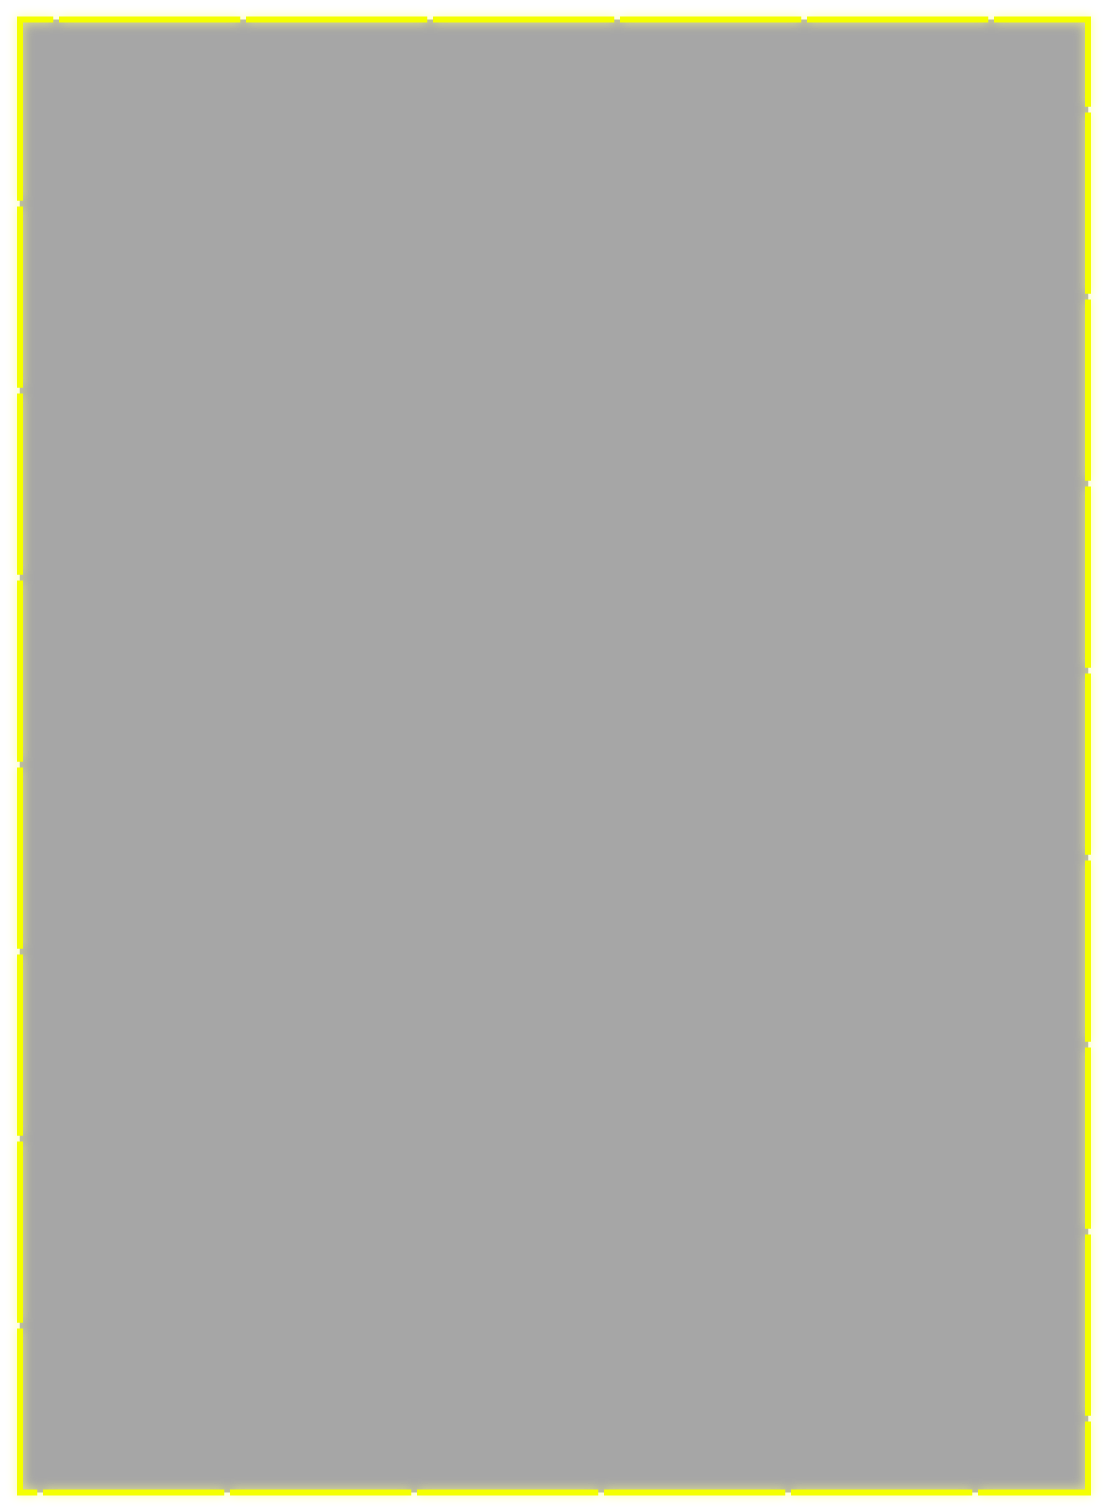
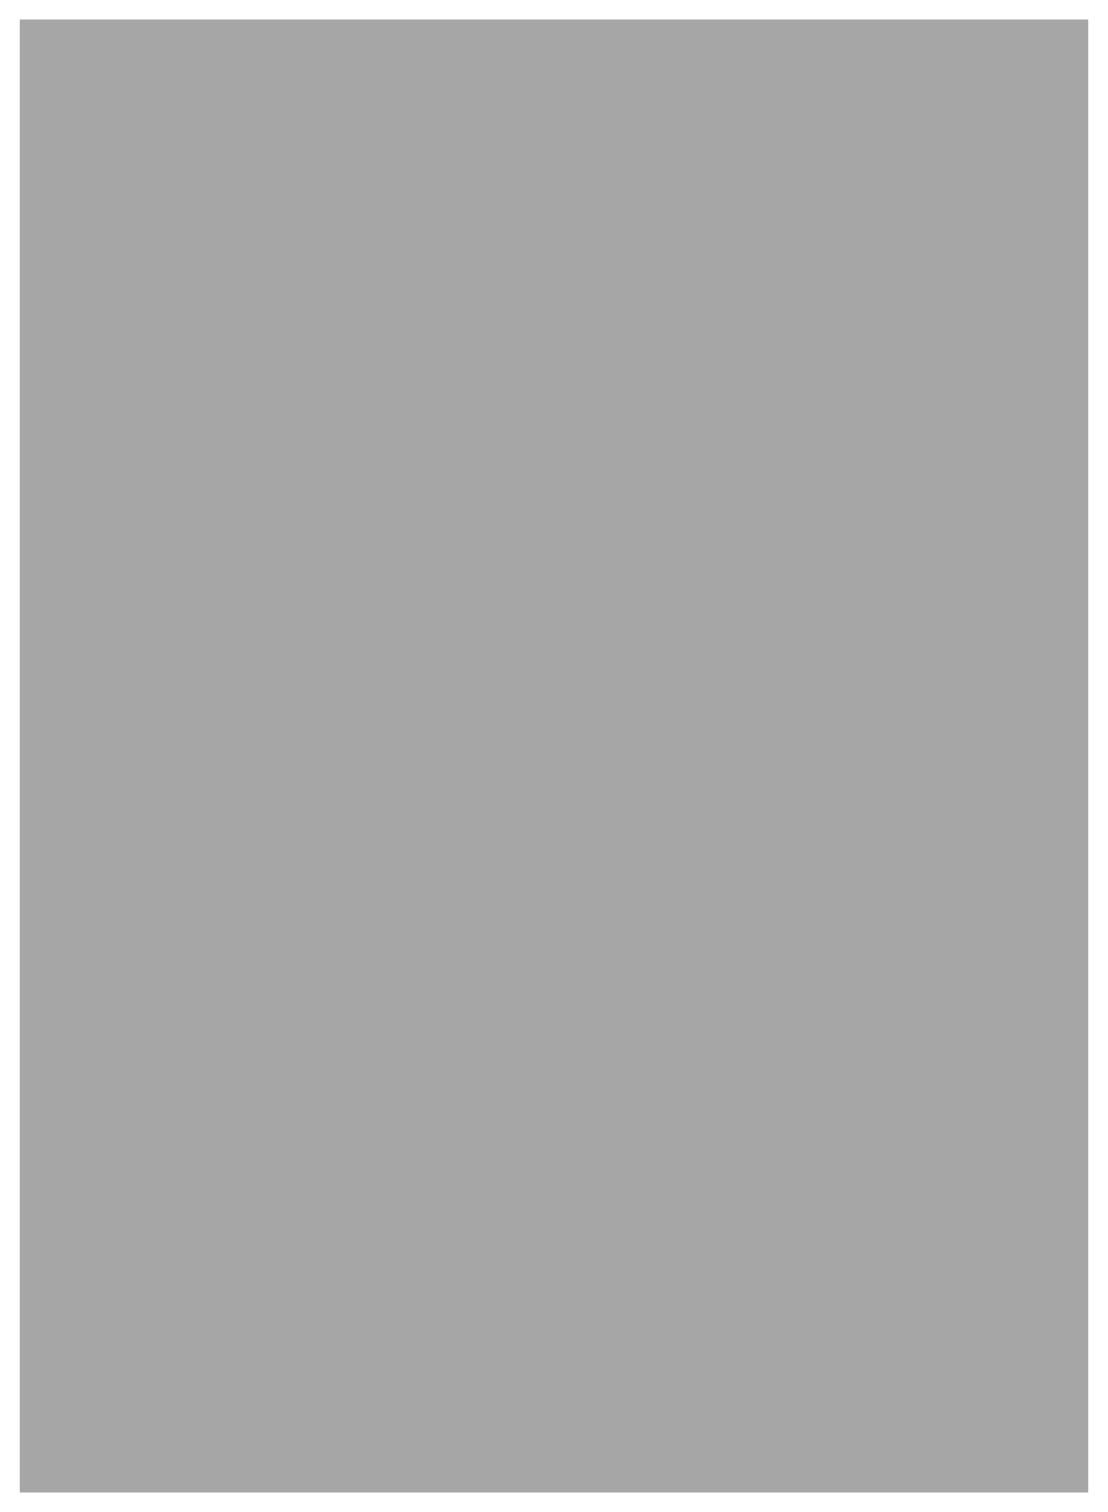
lock ball changes

Changed region(s): [[0.0, 0.0, 1.0, 0.9947]]

diff --git a/src/scenes/Level.js b/src/scenes/Level.js
@@ -29,7 +29,7 @@ class Level extends Phaser.Scene {
 		container_body.add(balls_background);
 
 		// world_rect
-		const world_rect = this.add.rectangle(21, 293, 1036, 1457);
+		const world_rect = this.add.rectangle(21, 293, 1036, 1451);
 		world_rect.setOrigin(0, 0);
 		world_rect.visible = false;
 		world_rect.isStroked = true;
@@ -46,9 +46,9 @@ class Level extends Phaser.Scene {
 		container_footer.add(lock_base);
 
 		// lock_ball
-		const lock_ball = this.add.image(23, 0, "b2");
-		lock_ball.scaleX = 0.7;
-		lock_ball.scaleY = 0.7;
+		const lock_ball = this.add.image(23, 0, "b4");
+		lock_ball.scaleX = 0.65;
+		lock_ball.scaleY = 0.65;
 		container_footer.add(lock_ball);
 
 		// bubble_lock
@@ -86,6 +86,11 @@ class Level extends Phaser.Scene {
 		end_line.visible = false;
 		end_line.isFilled = true;
 		container_endline.add(end_line);
+
+		// yellow_border
+		const yellow_border = this.add.image(-14, 270, "yellow_border");
+		yellow_border.setOrigin(0, 0);
+		container_endline.add(yellow_border);
 
 		// container_header
 		const container_header = this.add.container(0, 0);
@@ -309,8 +314,7 @@ class Level extends Phaser.Scene {
 		const popup_text = this.add.text(x, y, "+" + n, {});
 		popup_text.setOrigin(0.5, 0.5);
 		popup_text.setDepth(11);
-		popup_text.setStyle({ "align": "center", "color": this.oBalls[n].sColor, "fontSize": "64px" });
-		// popup_text.setStyle({ "align": "center", "color": "#FFFFFF", "fontSize": "64px" });
+		popup_text.setStyle({ "align": "center", "color": "#FFFFFF", "fontSize": "64px" });
 		this.tweens.add({
 			targets: popup_text,
 			x: x,
@@ -413,16 +417,16 @@ class Level extends Phaser.Scene {
 			this.container_balls.add(ball1);
 			ball1.setName(this.oBalls[sBall].nLabel);
 			this.ballsGroup.add(ball1);
-			const ballBody = ball1.body;
-			ballBody.setCollideWorldBounds(true);
-			ballBody.setCircle((ball1.width / 2) - 6);
-			ballBody.setOffset(6, 6);
-			ballBody.setBounce(0.3);
-			ballBody.setMass(5);
-			ballBody.gravity.y = 8000;
+			const body = ball1.body;
+			body.setCollideWorldBounds(true);
+			body.setCircle((ball1.width / 2) - 6);
+			body.setOffset(6, 6);
+			body.setBounce(0.3);
+			body.setMass(5);
+			body.gravity.y = 8000;
 			this.handleTracker();
 
-			ballBody.setBoundsRectangle(new Phaser.Geom.Rectangle(this.world_rect.x, this.world_rect.y, this.world_rect.width, this.world_rect.height));
+			body.setBoundsRectangle(new Phaser.Geom.Rectangle(this.world_rect.x, this.world_rect.y, this.world_rect.width, this.world_rect.height));
 		}
 	}
 	trackBall = (pointer) => {
@@ -462,8 +466,9 @@ class Level extends Phaser.Scene {
 	}
 	winGame = () => {
 		this.isGameOver = true;
+		this.pop_status_label.setTexture("won");
 		this.popupAnimation(3);
-		this.showConfetti();
+		// this.showConfetti();
 	}
 	popupAnimation = (nStar) => {
 		this.physics.pause();

diff --git a/src/scenes/Home.js b/src/scenes/Home.js
@@ -20,39 +20,91 @@ class Home extends Phaser.Scene {
 		this.add.image(540, 960, "background");
 
 		// logo
-		this.add.image(540, 574, "logo");
+		const logo = this.add.image(540, 540, "logo");
+		logo.scaleX = 0.8;
+		logo.scaleY = 0.8;
 
 		// btn_play_button
-		const btn_play_button = this.add.image(540, 1380, "Play_Button");
+		const btn_play_button = this.add.image(540, 1213, "Play_Button");
+
+		// btn_music_on
+		const btn_music_on = this.add.image(290, 1630, "Music_On");
+		btn_music_on.scaleX = 0.8;
+		btn_music_on.scaleY = 0.8;
+
+		// btn_sound_on
+		const btn_sound_on = this.add.image(790, 1630, "Sound_On");
+		btn_sound_on.scaleX = 0.8;
+		btn_sound_on.scaleY = 0.8;
 
 		this.btn_play_button = btn_play_button;
+		this.btn_music_on = btn_music_on;
+		this.btn_sound_on = btn_sound_on;
 
 		this.events.emit("scene-awake");
 	}
 
 	/** @type {Phaser.GameObjects.Image} */
 	btn_play_button;
+	/** @type {Phaser.GameObjects.Image} */
+	btn_music_on;
+	/** @type {Phaser.GameObjects.Image} */
+	btn_sound_on;
 
 	/* START-USER-CODE */
 
 	// Write your code here
 
+
+	btnAnimation = (texture, callback) => {
+		this.tweens.add({
+			targets: texture,
+			scaleX: "*=0.8",
+			scaleY: "*=0.8",
+			duration: 80,
+			yoyo: true,
+			onComplete: () => {
+				if (callback) callback();
+			}
+		});
+	}
+
 	create() {
 
 		this.editorCreate();
-
+		this.isMusicPlaying = true;
+		this.isSoundPlaying = true;
 		this.btn_play_button.setInteractive().on('pointerdown', () => {
-			this.tweens.add({
-				targets: this.btn_play_button,
-				scaleX: "*=0.8",
-				scaleY: "*=0.8",
-				duration: 80,
-				yoyo: true,
-				onComplete: () => {
-					this.scene.stop("Home");
-					this.scene.start("Level");
+			const callback = () => {
+				this.scene.stop("Home");
+				this.scene.start("Level");
+			}
+			this.btnAnimation(this.btn_play_button, callback);
+		})
+
+		this.btn_music_on.setInteractive().on('pointerdown', () => {
+			const callback = () => {
+				if (this.isMusicPlaying) {
+					this.isMusicPlaying = false;
+					this.btn_music_on.setTexture("Music_Off")
+				} else {
+					this.isMusicPlaying = true;
+					this.btn_music_on.setTexture("Music_On")
 				}
-			});
+			};
+			this.btnAnimation(this.btn_music_on, callback);
+		})
+		this.btn_sound_on.setInteractive().on('pointerdown', () => {
+			const callback = () => {
+				if (this.isSoundPlaying) {
+					this.isSoundPlaying = false;
+					this.btn_sound_on.setTexture("Sound_Off")
+				} else {
+					this.isSoundPlaying = true;
+					this.btn_sound_on.setTexture("Sound_On")
+				}
+			};
+			this.btnAnimation(this.btn_sound_on, callback);
 		})
 	}
 

diff --git a/src/scenes/Preload.js b/src/scenes/Preload.js
@@ -26,19 +26,53 @@ class Preload extends Phaser.Scene {
 		this.add.image(540, 960, "background");
 
 		// progress
-		const progress = this.add.text(540, 1224, "", {});
+		const progress = this.add.text(540, 1225, "", {});
 		progress.setOrigin(0.5, 0.5);
 		progress.text = "0%";
 		progress.setStyle({ "fontSize": "100px" });
 
 		// logo
-		this.add.image(540, 860, "logo");
+		const logo = this.add.image(540, 540, "logo");
+		logo.scaleX = 0.8;
+		logo.scaleY = 0.8;
+
+		// energyContainer
+		const energyContainer = this.add.image(540, 1660, "progress_bar_base");
+		energyContainer.visible = false;
+
+		// energyBar
+		const energyBar = this.add.image(214, 1660, "progress_bar");
+		energyBar.visible = false;
+
+		// text
+		const text = this.add.text(540, 1572, "", {});
+		text.setOrigin(0.5, 0.5);
+		text.text = "LOADING...";
+		text.setStyle({ "align": "center", "fontSize": "44px", "stroke": "#2B5873", "strokeThickness":5,"shadow.color": "#2B5873", "shadow.blur":2,"shadow.stroke":true,"shadow.fill":true});
+
+		// mask_rect
+		const mask_rect = this.add.rectangle(539.5, 1659, 707, 48);
+		mask_rect.visible = false;
+		mask_rect.fillAlpha = 0;
+		mask_rect.isStroked = true;
+		mask_rect.strokeColor = 0;
 
 		// progress (components)
 		new PreloadText(progress);
 
+		this.energyContainer = energyContainer;
+		this.energyBar = energyBar;
+		this.mask_rect = mask_rect;
+
 		this.events.emit("scene-awake");
 	}
+
+	/** @type {Phaser.GameObjects.Image} */
+	energyContainer;
+	/** @type {Phaser.GameObjects.Image} */
+	energyBar;
+	/** @type {Phaser.GameObjects.Rectangle} */
+	mask_rect;
 
 	/* START-USER-CODE */
 
@@ -50,7 +84,11 @@ class Preload extends Phaser.Scene {
 
 		this.editorPreload();
 
-		this.load.on(Phaser.Loader.Events.COMPLETE, () => this.scene.start("Home"));
+		this.load.on(Phaser.Loader.Events.COMPLETE, (p) => this.scene.start("Home"));
+		// this.load.on(Phaser.Loader.Events.COMPLETE, (p) => {
+
+		// });
+
 	}
 
 	/* END-USER-CODE */

diff --git a/src/components/PreloadText.js b/src/components/PreloadText.js
@@ -10,9 +10,31 @@ class PreloadText extends UserComponent {
 
 		/* START-USER-CTR-CODE */
 
-		this.scene.load.on(Phaser.Loader.Events.PROGRESS, p => {
+		this.initialTime = 20;
+		this.timeLeft = this.timeLeft;
 
+		this.loading = () => {
+			this.gameTimer = this.scene.time.addEvent({
+				delay: 1000,
+				callback: function () {
+					this.timeLeft--;
+					let stepWidth = this.energyMask.displayWidth / this.initialTime;
+					this.energyMask.x += stepWidth;
+					if (this.timeLeft == 0) {
+						this.scene.start("Level");
+					}
+				},
+				callbackScope: this,
+				loop: true
+			});
+		}
+		// this.loading();
+
+		this.scene.load.on(Phaser.Loader.Events.PROGRESS, p => {
 			this.gameObject.text = Math.floor(p * 100) + "%";
+			// this.energyMask = this.scene.add.sprite(this.scene.mask_rect.x, this.scene.mask_rect.y, "progress_bar");
+			// this.energyMask.visible = false;
+			// this.scene.energyBar.mask = new Phaser.Display.Masks.BitmapMask(this.scene, this.energyMask);
 		});
 
 		/* END-USER-CTR-CODE */

diff --git a/index.html b/index.html
@@ -34,6 +34,11 @@
 			padding: 0;
 			font-family: Courier;
 		}
+
+		canvas {
+
+			cursor: pointer;
+		}
 	</style>
 
 </head>
